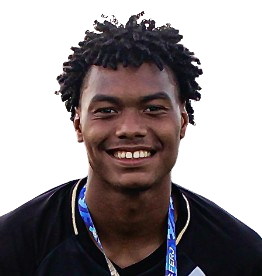
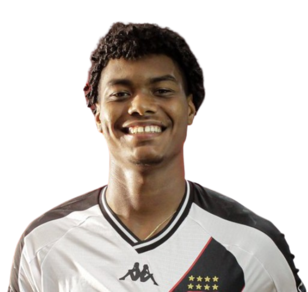
emerson e gb

diff --git a/src/App.js b/src/App.js
@@ -74,6 +74,7 @@ import couto from './jogadores/couto.png';
 import texeira from './jogadores/texeira.png';
 import souza from './jogadores/souza.png';
 import gb from './jogadores/gb.png';
+import emerson from './jogadores/emerson.png';
 
 const containerStyle = {
   width: '1550px',
@@ -137,7 +138,8 @@ const playersList = [
   { id: 31, nome: "Rayan", imagem: rayan, hasBorder: true, hasNumber: true, number: 77},
   { id: 32, nome: "Erick M.", imagem: erick, hasBorder: true, hasNumber: true, number: 16},
   { id: 33, nome: "David", imagem: david, hasBorder: true, hasNumber: true, number: 7},
-  { id: 68, nome: "Clayton", imagem: clayton, hasBorder: true, hasNumber: true, number: 9},
+  /*{ id: 68, nome: "Clayton", imagem: clayton, hasBorder: true, hasNumber: true, number: 9},*/
+  { id: 68, nome: "Emerson", imagem: emerson, hasBorder: true, hasNumber: true, number: 17},
   { id: 63, nome: "Coutinho", imagem: couto, hasBorder: true, hasNumber: true, number: 11},
   { id: 70, nome: "Texeira", imagem: texeira, hasBorder: true, hasNumber: true, number:90},
   { id: 71, nome: "GB", imagem: gb, hasBorder: true, hasNumber: true, number:97},
